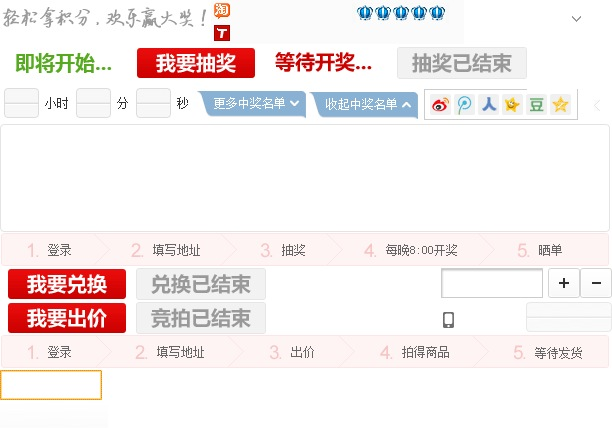
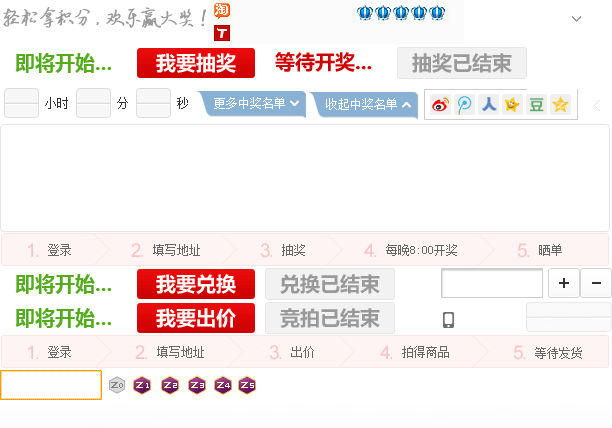
udpate

diff --git a/frontend/www/assets/css/exchange.css b/frontend/www/assets/css/exchange.css
@@ -27,7 +27,7 @@ h2 span{float:left;font-weight: bold;}
 .left,.center,.l,.right,.r{display:inline;float:left;}
 .right,.r{float:right;}
 #contentA{width:980px;}/*页面属性 */
-
+.hid{display: none;}
 
 
 
@@ -66,7 +66,7 @@ h2 span{float:left;font-weight: bold;}
 #contentA .left .blockB li img{width:40px;height:40px;}
 
 #contentA .right{width:650px;}
-#contentA .deal{text-align: left;}
+#contentA .deal{text-align: left;width:auto;height:auto;}
 #contentA .deal h2{padding:5px 20px;height:60px;line-height:30px;margin-top:10px;}
 #contentA .deal h2 span{font:400 20px/30px "微软雅黑";color:#333;width:480px;text-align: left;height:60px;overflow: hidden;}
 #contentA .deal h2 a{color:#09c;}
@@ -76,17 +76,11 @@ h2 span{float:left;font-weight: bold;}
 #contentA .deal h2 em i a.sina{margin-left:1px;}
 #contentA .deal h2 em.on{border-color: #ccc;}
 #contentA .deal h2 em.on i{display:block;}
-#contentA .deal h3{line-height: 26px;padding:0 20px;color:#333;}
+
+#contentA .deal h3{line-height: 26px;padding:0 20px;color:#333;border-bottom: 1px solid #e6e6e6;}
 #contentA .deal h3 em{font-size:26px;color:#cc0000;margin-right:5px;font-family: "微软雅黑";}
 #contentA .deal h3 strong{font-size: 14px;margin-left:5px;}
-#contentA .deal h5{display:none;height:30px;line-height: 30px;overflow: hidden;padding:0 20px;margin-top:20px;color:#333;}
-#contentA .deal h5 span{width:200px;height:30px;display:inline-block;font:24px/30px "Arial";background:url(../images/bg5.png) no-repeat -1px -88px;}
-#contentA .deal h5 i{margin-right:5px;font-style: normal;}
-/*#contentA .deal h5 i{padding-left:5px;font-style: normal;margin-right:5px;height:30px;display:inline-block;background:url(../images/bg5.png) no-repeat -136px -88px;vertical-align: top;*vertical-align: middle;}
-#contentA .deal h5 i u{padding-right:5px;text-decoration: none;font:24px/30px "Arial";height:30px;display:inline-block;background:url(../images/bg5.png) no-repeat 100% -302px;vertical-align: top;}*/
-#contentA .deal h5 em{width:59px;height:30px;display:inline-block;font:24px/30px "Arial";background:url(../images/bg5.png) no-repeat -136px -88px;text-indent: 4px;vertical-align: top;*vertical-align: middle;}
-#contentA .deal h5 em.one{width:70px;background-position: -4px -88px;margin-left:5px;}
-#contentA .deal h5 em.two{width:60px;background-position: -76px -88px;}
+
 #contentA .deal h4{height:30px;overflow: hidden;padding:0 20px;margin-top:20px;}
 #contentA .deal h4 .btn,#contentA .deal h4 span,#contentA .deal h4 em{width:118px;height:30px;background: url(../images/bg5.png) no-repeat -16px -48px;vertical-align: top;line-height: 30px;margin-right:10px;display:none;border:none;}
 #contentA .dhdeal h4 .btn,#contentA .dhdeal h4 span,#contentA .dhdeal h4 em{background: url(../images/bg5.png) no-repeat -16px -269px;}
@@ -94,8 +88,16 @@ h2 span{float:left;font-weight: bold;}
 #contentA .deal h4 span{display:inline-block;color:#999;}
 #contentA .deal h4 em{background: none;}
 #contentA .deal h4 em strong{color:#333;}
-#contentA .deal h4 em b{color:#cc0000;}
+#contentA .deal h4 em b{color:#cc0000;display: inline;}
 #contentA .deal h4 i{display:none;font-style: normal;margin-top:20px;}
+#contentA .deal h5{height:30px;line-height: 30px;overflow: hidden;padding:0 20px;margin-top:20px;color:#333;}
+#contentA .deal h5 span{width:200px;height:30px;display:inline-block;font:24px/30px "Arial";background:url(../images/bg5.png) no-repeat -1px -88px;}
+#contentA .deal h5 i{margin-right:5px;font-style: normal;}
+/*#contentA .deal h5 i{padding-left:5px;font-style: normal;margin-right:5px;height:30px;display:inline-block;background:url(../images/bg5.png) no-repeat -136px -88px;vertical-align: top;*vertical-align: middle;}
+#contentA .deal h5 i u{padding-right:5px;text-decoration: none;font:24px/30px "Arial";height:30px;display:inline-block;background:url(../images/bg5.png) no-repeat 100% -302px;vertical-align: top;}*/
+#contentA .deal h5 em{width:59px;height:30px;display:inline-block;font:24px/30px "Arial";background:url(../images/bg5.png) no-repeat -136px -88px;text-indent: 4px;vertical-align: top;*vertical-align: middle;}
+#contentA .deal h5 em.one{width:70px;background-position: -4px -88px;margin-left:5px;}
+#contentA .deal h5 em.two{width:60px;background-position: -76px -88px;}
 #contentA .deal h6{height:30px;overflow: hidden;line-height: 30px;padding:0 20px;margin-top: 10px;color:#333;}
 #contentA .deal h6 a{color:#09c;}#contentA .deal h6 a:hover{color:#c00;}
 #contentA .deal h6 b{display: inline-block;width:24px;height:27px;margin-top:1px;background: url(http://z0.tuanimg.com/v1/jifen/raffle/img/bg3.png) no-repeat -723px 0;}
@@ -148,7 +150,7 @@ h2 span{float:left;font-weight: bold;}
 #contentA .zt1 h4{height:70px;}
 #contentA .zt1 h4 .btn{display:none;}
 #contentA .zt1 h4 span{display: inline-block;background-position:-16px -48px;overflow: hidden;}
-#contentA .zt1 h4 i{display:block;}
+/*#contentA .zt1 h4 i{display:block;}*/
 #contentA .zt1 h5{display: none;}
 #contentA .zt1 .blockA{display:none;}
 #contentA .zt2 h4 .btn{display:inline-block;background-position:-137px -48px;}
@@ -163,12 +165,12 @@ h2 span{float:left;font-weight: bold;}
 #contentA .zt4 h4{height:32px;}
 #contentA .zt4 h4 .btn{display:none;}
 #contentA .zt4 h4 span{width: 130px;height:32px;display: inline-block;background-position:-397px -47px;overflow: hidden;}
-#contentA .zt4 h5{display: none;}
+/*#contentA .zt4 h5{display: none;}*/
 #contentA .zt4 .blockA{display:block;}
-#contentA .dhdeal #contentA .zt1 h4 span{background-position:-16px -269px;}
-#contentA .dhdeal #contentA .zt2 h4{height:60px;}
-#contentA .dhdeal #contentA .zt2 h4 .btn{background-position:-137px -269px;}
-/*#contentA .dhdeal #contentA .zt2 h4 em{display:block;width:auto;}*/
+#contentA .dhdeal  .zt1 h4 span{background-position:-16px -269px;}
+#contentA .dhdeal  .zt2 h4{height:60px;}
+#contentA .dhdeal  .zt2 h4 .btn{background-position:-137px -269px;}
+/*#contentA .dhdeal  .zt2 h4 em{display:block;width:auto;}*/
 #contentA .dhdeal  .zt2 h4 em{display:inline-block;width:auto;}
 #contentA .dhdeal  .zt3 h4{height:32px;}
 #contentA .dhdeal .zt3 h4 .btn{display:none;}
@@ -178,8 +180,6 @@ h2 span{float:left;font-weight: bold;}
 #contentA .dhdeal .zt4 h4{height:70px;}
 #contentA .dhdeal .zt4 h4 .btn{display:none;}
 #contentA .dhdeal .zt4 h4 span{display: inline-block;background-position:-16px -269px;overflow: hidden;width: 118px;}
-#contentA .dhdeal .zt4 h4 i{display:block;}
-#contentA .dhdeal .zt4 h5{display: none;}
 #contentA .dhdeal .zt4 .blockA{display:none;}
 #contentA .jpdeal .blockC{display:none;margin:20px 20px 0 20px;height:132px;background: url("../images/bg5.png") no-repeat 0 -124px;line-height: 30px;text-align: left;}
 #contentA .jpdeal .blockC p{margin: 0;padding:0 20px;background: none;line-height: 24px;border:none;}

diff --git a/frontend/views/exchange/index.php b/frontend/views/exchange/index.php
@@ -34,7 +34,7 @@
         </div>
 
 
-        <div class="blockB">
+<!--        <div class="blockB">
             <h2>谁兑换了礼品？</h2>
             <ul class="clear">
                 <li>
@@ -43,103 +43,87 @@
                     </a>
                 </li>
             </ul>
-        </div>
+        </div>-->
     </div>
 
     <div class="right dhdeal">
         <form action="/jifen/welfare/confirm_order" method="post">
-            <div class="deal zt2" info="d,129424,1400115600000,1398753000000,2" id="deal129424">
+            <?php
+                $start = "zt3";
+                if($data->exchange->start_time > time()){
+                    $start = "zt1";
+                }else if($data->exchange->start_time < time() && $data->exchange->end_time > time()){
+                     $start = "zt2";
+                }
+            ?>
+            <div class="deal <?php echo $start?>" info="d,129424,1400115600000,1398753000000,2" id="deal129424">
                 <input name="id" type="hidden" value="129424">
                 <input name="url_name" type="hidden" value="0yuanbaoyo_129424">
                 <h2>
                     <span><?php echo $data->exchange->name; ?></span>
-                    <a href="javascript:void(0)" onclick="" target="_self">收藏</a>&nbsp;&nbsp;|&nbsp;&nbsp;
-                    <em>分享 <i><a class="sina" href="http://v.t.sina.com.cn/share/share.php?url=http://www.zhe800.com/jifen/welfare/0yuanbaoyo_129424&amp;title=%E3%80%900%E5%85%83%E5%8C%85%E9%82%AE%E3%80%91%E5%B9%BC%E5%84%BF%E5%9B%AD%E7%94%9F%E6%97%A5%E7%A4%BC%E7%89%A9%E5%AE%9E%E7%94%A8%E7%94%B7%E9%80%81%E5%A5%B3%E7%94%9F%E5%B0%8F%E5%B0%8F%E7%A4%BC%E5%93%81%E6%96%B0%E5%A5%87%E7%89%B9%E5%88%AB%E5%88%9B%E6%84%8F%E5%AE%B6%E5%B1%85%E6%97%A5%E7%94%A8%E5%93%81%E7%99%BE%E8%B4%A7,%E5%8F%AF%E4%BB%A5%E5%9C%A8@%E6%8A%98800%20%E5%8F%82%E4%B8%8E%E7%A7%AF%E5%88%86%E5%85%91%E6%8D%A2,%E5%85%8D%E8%B4%B9%E8%BF%98%E5%8C%85%E9%82%AE%E9%80%81%E5%88%B0%E5%AE%B6,%E5%BF%AB%E6%9D%A5%E8%B5%9A%E7%A7%AF%E5%88%86%E5%90%A7&amp;pic=http://z2.tuanimg.com/upload/tao_jifen_deal/image/129424/normal_webp_25cba1d08981f4acb280c651d2a6a155.jpg" target="_blank"></a><a class="qqwb" href="http://share.v.t.qq.com/index.php?c=share&amp;a=index&amp;url=http://www.zhe800.com/jifen/welfare/0yuanbaoyo_129424&amp;title=%E3%80%900%E5%85%83%E5%8C%85%E9%82%AE%E3%80%91%E5%B9%BC%E5%84%BF%E5%9B%AD%E7%94%9F%E6%97%A5%E7%A4%BC%E7%89%A9%E5%AE%9E%E7%94%A8%E7%94%B7%E9%80%81%E5%A5%B3%E7%94%9F%E5%B0%8F%E5%B0%8F%E7%A4%BC%E5%93%81%E6%96%B0%E5%A5%87%E7%89%B9%E5%88%AB%E5%88%9B%E6%84%8F%E5%AE%B6%E5%B1%85%E6%97%A5%E7%94%A8%E5%93%81%E7%99%BE%E8%B4%A7,%E5%8F%AF%E4%BB%A5%E5%9C%A8@%E6%8A%98800%20%E5%8F%82%E4%B8%8E%E7%A7%AF%E5%88%86%E5%85%91%E6%8D%A2,%E5%85%8D%E8%B4%B9%E8%BF%98%E5%8C%85%E9%82%AE%E9%80%81%E5%88%B0%E5%AE%B6,%E5%BF%AB%E6%9D%A5%E8%B5%9A%E7%A7%AF%E5%88%86%E5%90%A7&amp;pic=http://z2.tuanimg.com/upload/tao_jifen_deal/image/129424/normal_webp_25cba1d08981f4acb280c651d2a6a155.jpg" target="_blank"></a><a class="renren" href="http://share.renren.com/share/buttonshare.do?link=http://www.zhe800.com/jifen/welfare/0yuanbaoyo_129424" target="_blank"></a><a class="kaixin" href="http://www.kaixin001.com/rest/records.php?url=http://www.zhe800.com/jifen/welfare/0yuanbaoyo_129424&amp;style=11&amp;content=%E3%80%900%E5%85%83%E5%8C%85%E9%82%AE%E3%80%91%E5%B9%BC%E5%84%BF%E5%9B%AD%E7%94%9F%E6%97%A5%E7%A4%BC%E7%89%A9%E5%AE%9E%E7%94%A8%E7%94%B7%E9%80%81%E5%A5%B3%E7%94%9F%E5%B0%8F%E5%B0%8F%E7%A4%BC%E5%93%81%E6%96%B0%E5%A5%87%E7%89%B9%E5%88%AB%E5%88%9B%E6%84%8F%E5%AE%B6%E5%B1%85%E6%97%A5%E7%94%A8%E5%93%81%E7%99%BE%E8%B4%A7,%E5%8F%AF%E4%BB%A5%E5%9C%A8@%E6%8A%98800%20%E5%8F%82%E4%B8%8E%E7%A7%AF%E5%88%86%E5%85%91%E6%8D%A2,%E5%85%8D%E8%B4%B9%E8%BF%98%E5%8C%85%E9%82%AE%E9%80%81%E5%88%B0%E5%AE%B6,%E5%BF%AB%E6%9D%A5%E8%B5%9A%E7%A7%AF%E5%88%86%E5%90%A7&amp;pic=http://z2.tuanimg.com/upload/tao_jifen_deal/image/129424/normal_webp_25cba1d08981f4acb280c651d2a6a155.jpg" target="_blank"></a><a class="douban" href="http://www.douban.com/recommend/?url=http://www.zhe800.com/jifen/welfare/0yuanbaoyo_129424&amp;title=%E3%80%900%E5%85%83%E5%8C%85%E9%82%AE%E3%80%91%E5%B9%BC%E5%84%BF%E5%9B%AD%E7%94%9F%E6%97%A5%E7%A4%BC%E7%89%A9%E5%AE%9E%E7%94%A8%E7%94%B7%E9%80%81%E5%A5%B3%E7%94%9F%E5%B0%8F%E5%B0%8F%E7%A4%BC%E5%93%81%E6%96%B0%E5%A5%87%E7%89%B9%E5%88%AB%E5%88%9B%E6%84%8F%E5%AE%B6%E5%B1%85%E6%97%A5%E7%94%A8%E5%93%81%E7%99%BE%E8%B4%A7,%E5%8F%AF%E4%BB%A5%E5%9C%A8@%E6%8A%98800%20%E5%8F%82%E4%B8%8E%E7%A7%AF%E5%88%86%E5%85%91%E6%8D%A2,%E5%85%8D%E8%B4%B9%E8%BF%98%E5%8C%85%E9%82%AE%E9%80%81%E5%88%B0%E5%AE%B6,%E5%BF%AB%E6%9D%A5%E8%B5%9A%E7%A7%AF%E5%88%86%E5%90%A7&amp;image=http://z2.tuanimg.com/upload/tao_jifen_deal/image/129424/normal_webp_25cba1d08981f4acb280c651d2a6a155.jpg" target="_blank"></a><a class="qzong" href="http://sns.qzone.qq.com/cgi-bin/qzshare/cgi_qzshare_onekey?url=http://www.zhe800.com/jifen/welfare/0yuanbaoyo_129424&amp;title=%E3%80%900%E5%85%83%E5%8C%85%E9%82%AE%E3%80%91%E5%B9%BC%E5%84%BF%E5%9B%AD%E7%94%9F%E6%97%A5%E7%A4%BC%E7%89%A9%E5%AE%9E%E7%94%A8%E7%94%B7%E9%80%81%E5%A5%B3%E7%94%9F%E5%B0%8F%E5%B0%8F%E7%A4%BC%E5%93%81%E6%96%B0%E5%A5%87%E7%89%B9%E5%88%AB%E5%88%9B%E6%84%8F%E5%AE%B6%E5%B1%85%E6%97%A5%E7%94%A8%E5%93%81%E7%99%BE%E8%B4%A7,%E5%8F%AF%E4%BB%A5%E5%9C%A8@%E6%8A%98800%20%E5%8F%82%E4%B8%8E%E7%A7%AF%E5%88%86%E5%85%91%E6%8D%A2,%E5%85%8D%E8%B4%B9%E8%BF%98%E5%8C%85%E9%82%AE%E9%80%81%E5%88%B0%E5%AE%B6,%E5%BF%AB%E6%9D%A5%E8%B5%9A%E7%A7%AF%E5%88%86%E5%90%A7&amp;pics=http://z2.tuanimg.com/upload/tao_jifen_deal/image/129424/normal_webp_25cba1d08981f4acb280c651d2a6a155.jpg" target="_blank"></a></i></em>
                 </h2>
                 <h3>
                     <span>所需积分</span><em><?php echo $data->exchange->integral; ?></em>积分<br>
                     <span>价值</span><strong><i>￥</i><?php echo $data->exchange->price; ?></strong><br>
                     <span>兑奖名额</span><b><?php echo $data->exchange->num; ?></b>
                 </h3>
-                <h5><b>剩余时间</b><i>2</i>天<em class="one">13</em> 小时 <em class="two">33</em> 分钟 <em>31</em> 秒</h5>
+                <!--<h5><b>剩余时间</b><i>2</i>天<em class="one">13</em> 小时 <em class="two">33</em> 分钟 <em>31</em> 秒</h5>-->
                 <h4>
                     <input class="btn" type="submit" value=""><span></span>
-                    <a class="hasbd" href="javascript:void(0);"><?php echo $data->exchange->user_count?>人已兑换</a>
-                    <em>(当前库存<b>1</b>件)</em>
-                    <i>开始时间：04月29日 14:30 </i>
+                    <a class="hasbd" href="javascript:void(0);"><?php echo $data->exchange->user_count ?>人已兑换</a>
+                    <em>(当前库存<b><?php
+                            $leftNum = $data->exchange->num - $data->exchange->sale_num;
+                            echo $leftNum > 0 ? $leftNum : 0;
+                            ?></b>件)</em>
                 </h4>
             </div>
         </form>
-
+        <script type="text/javascript">
+            $(".tb-tabbar").find("li").live("click", function() {
+                $(".tb-tabbar").find("li").removeClass("selected");
+                $(this).addClass("selected");
+                $(".displayIF").addClass('hid');
+                $("." + $(this).attr("id")).removeClass("hid");
+            });
+        </script>
+        <?php
+        $page = Yii::app()->request->getQuery("page");
+        ?>
         <div class="J_TabBarWrap clear l">
             <ul class="tb-tabbar">
-                <li class="selected">
+                <li id="exchangerule" <?php echo empty($page) ? "class='selected'" : ""; ?>>
                     <a href="javascript:void(0)" hidefocus="true">兑奖规则</a>
                 </li>
-                <li class="" style="display:none">
-                    <a href="javascript:void(0)" hidefocus="true">礼品详情</a>
-                </li>
-                <li id="sdtotal" class="">
-                    <a href="javascript:void(0)" hidefocus="true">晒单分享(<em>0</em>)</a>
-                </li>
-                <li id="recordtab" class="">
-                    <a href="javascript:void(0)" hidefocus="true">兑换记录(<em>1</em>)</a>
+                <li id="recordstab" <?php echo!empty($page) && $page > 0 ? "class='selected'" : ""; ?>>
+                    <a href="javascript:void(0)" hidefocus="true">兑换记录(<em><?php echo $data->logList['pager']->getItemCount(); ?></em>)</a>
                 </li>
             </ul>
         </div>
 
-        <div class="l clear displayIF" id="">
+        <div class="l displayIF exchangerule <?php echo empty($page) ? "" : "hid"; ?>" id="">
             <div class="topinfo"></div>
-            <div class="blockCJ">
+            <div class="blockCJ ">
                 <strong>兑换礼品规则</strong>
                 1、活动开始后，所有注册会员均可点击“我要兑换”按钮进行礼品兑换       <br>
-                2、为了更好的回馈会员，所有礼品不收取任何费用，我们包邮为您送到家      <br>
+                2、为了更好的回馈金折会员，所有礼品不收取任何费用，我们包邮为您送到家      <br>
                 3、兑换礼品需要花费相应的积分，积分不足不能兑换      <br>
                 4、一旦兑换即扣除相应积分，所兑换的礼品将在后台审核后发出。如审核过程中发现该用户积分行为异常，兑换礼品将不予发放，已扣除积分不退还。如该用户恶意积分行为严重，我们保留不另行通知而直接封禁该用户账号的权利。<br>
-                5、由于礼品数量有限，我们对每位会员每个自然月获得礼品数设置了上限，<a href="/jifen/rule" target="_blank">查看详情&gt;&gt;</a>
+
                 <strong>注意事项</strong>
-                1、团800内部员工禁止参加0元换购中的任何兑换活动      <br>
+                1、金折内部员工禁止参加积分兑换中的任何兑换活动      <br>
                 2、数量有限，请先登录账号再进行兑换，这样才能快人一步      <br>
-                3、请准确填写<a href="/jifen/profile/address" class="log" target="_blank">收货地址</a>和电话,如因填写的地址或电话有误导致的快递丢失,积分不退    <br>
-                4、0元换购中的礼品，一经换出不予退换<br>
-                5、折800网有权在活动未开始前对活动信息进行更改，活动信息以兑换活动开始后的为准<br>
-                6、在接到快递时请本人签收并当场确认，如物品有问题请务必拒签，否则不予处理<br>
-                7、全国多数地区包邮，部分地区（港澳台，新疆，内蒙，西藏，甘肃、青海等偏远地区）不包邮
+                3、请准确填写<a target="_blank" href="<?php echo Yii::app()->createUrl('user/address'); ?>">收货地址</a>和电话,如因填写的地址或电话有误导致的快递丢失,积分不退    <br>
+                4、积分兑换中的礼品，一经换出不予退换<br>
+                5、金折网有权在活动未开始前对活动信息进行更改，活动信息以兑换活动开始后的为准。
             </div>
         </div>
-
-        <div class="l clear displayIF" id="" style="display: none;">
+        <div class="l  displayIF recordstab <?php echo!empty($page) && $page > 0 ? "" : "hid"; ?>" id="records" >
             <div class="topinfo"></div>
-            <div class="bbilis2">
-                数量：1，颜色随机
-            </div>
-        </div>
-
-        <div class="l clear displayIF" id="pjxq" style="display: none;">
-            <div class="topinfo" info="2"></div><div class="plzw">买过的人都很懒，还没有人分享过这件商品的淘货感想，争做晒团第一人！</div>
-        </div>
-
-        <div class="l clear displayIF" id="records" style="display: none;">
-            <div class="topinfo"></div>
-            <!-- <div class="uslist">
-                <div class="tit"><span class="w1">用户名</span><span class="w2">属性</span><span class="w3">出价时间</span></div>
-                <div class="plzw">捡到宝了，这件商品还没有人进行过兑换，快来参与兑换！</div>
-                <div class="loading"><em></em></div>
-                <ul class="dhuan">
-                    <li><span class="w1"><a href="#" target="_blank">山东黄金</a><a href="/profile/trade" target="_blank"><em class="z0"></em></a></span><span class="w2">XXL 红色</span><span class="w3">2013-07-03 11:11:11</span></li>
-                    <li class="bg2"><span class="w1"><a href="#" target="_blank">蜡笔小新在中国</a><a href="/profile/trade" target="_blank"><em class="z1"></em></a></span><span class="w2">M 蓝色</span><span class="w3">2013-07-03 11:11:11</span></li>
-                    <li><span class="w1"><a href="#" target="_blank">烂七八糟雅虎和</a><a href="/profile/trade" target="_blank"><em class="z2"></em></a></span><span class="w2">S 绿色</span><span class="w3">2013-07-03 11:11:11</span></li>
-                    <li class="bg2"><span class="w1"><a href="#" target="_blank">奇怪的片警</a><a href="/profile/trade" target="_blank"><em class="z3"></em></a></span><span class="w2">XL</span><span class="w3">2013-07-03 11:11:11</span></li>
-                    <li><span class="w1"><a href="#" target="_blank">蜡笔小新在中国</a><a href="/profile/trade" target="_blank"><em class="z4"></em></a></span><span class="w2">L</span><span class="w3">2013-07-03 11:11:11</span></li>
-                    <li class="bg2"><span class="w1"><a href="#" target="_blank">山东黄金</a><a href="/profile/trade" target="_blank"><em class="z5"></a></em></span><span class="w2">380</span><span class="w3">2013-07-03 11:11:11</span></li>
-                    <li><span class="w1"><a href="#" target="_blank">烂七八糟雅虎和</a><a href="/profile/trade" target="_blank"><em class="z0"></em></a></span><span class="w2">380</span><span class="w3">2013-07-03 11:11:11</span></li>
-                    <li class="bg2"><span class="w1"><a href="#" target="_blank">山东黄金</a><a href="/profile/trade" target="_blank"><em class="z0"></em></a></span><span class="w2">380</span><span class="w3">2013-07-03 11:11:11</span></li>
-                    <li><span class="w1"><a href="#" target="_blank">奇怪的片警</a><a href="/profile/trade" target="_blank"><em class="z0"></em></a></span><span class="w2">380</span><span class="w3">2013-07-03 11:11:11</span></li>
-                    <li class="bg2"><span class="w1"><a href="#" target="_blank">山东黄金</a><a href="/profile/trade" target="_blank"><em class="z0"></em></a></span><span class="w2">380</span><span class="w3">2013-07-03 11:11:11</span></li>
-                </ul>
-                <div class="list_page"><span class="selected">上页</span> <span>1</span><a info="2" href="javascript:void(0)">2</a><a info="3" href="javascript:void(0)">3</a><a info="4" href="javascript:void(0)">4</a><a info="5" href="javascript:void(0)">5</a><a info="6" href="javascript:void(0)">6</a><a info="7" href="javascript:void(0)">7</a><a info="8" href="javascript:void(0)">8</a> <a info="2" href="javascript:void(0)">下页</a></div>
-                <div class="pgmsg">亲，由于兑换记录较多，我们只显示最新的前50页</div>
-            </div> -->
+            <div class="uslist">
+                <?php
+                $this->renderPartial('exchangeLogList', array('logList' => $data->logList));
+                ?>
+            </div> 
         </div>
     </div>
 

diff --git a/frontend/config/main.php b/frontend/config/main.php
@@ -18,8 +18,8 @@ return [
                 'index.html' => 'site/index',
                 'out/<id:.+?>.html' => 'site/out',
                 'site/search' => 'site/search',
-                'score/ec/<id:.+?>.html' => 'exchange/exchangeIndex',
-                'score/ajax/<action:\w+>' => 'exchange/<action>',
+                'exchange/<id:.+?>.html' => 'exchange/index',
+                'exchange/<action:\w+>' => 'exchange/<action>',
             ],
         ],
     ],

diff --git a/frontend/controllers/ExchangeController.php b/frontend/controllers/ExchangeController.php
@@ -30,7 +30,7 @@ class ExchangeController extends Controller
     /**
      * 积分兑换首页
      */
-    public function actionExchangeIndex($id, $page = 1)
+    public function actionIndex($id, $page = 1)
     {
 //        $userCount = ExchangeLog::model()->count(array('condition'=>'goods_id=:goods_id','params'=>array(":goods_id"=>3),'group'=>'user_id'));
 //        var_dump($userCount);die;
